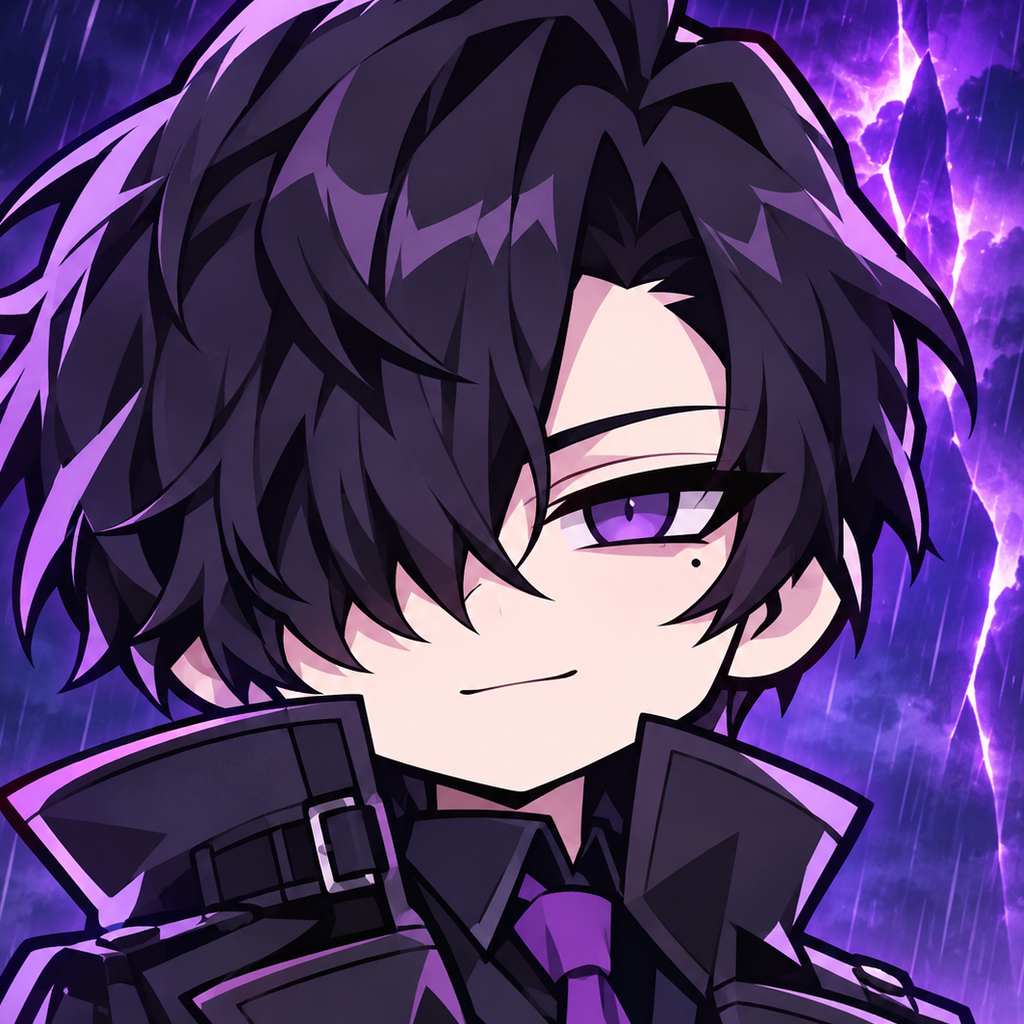
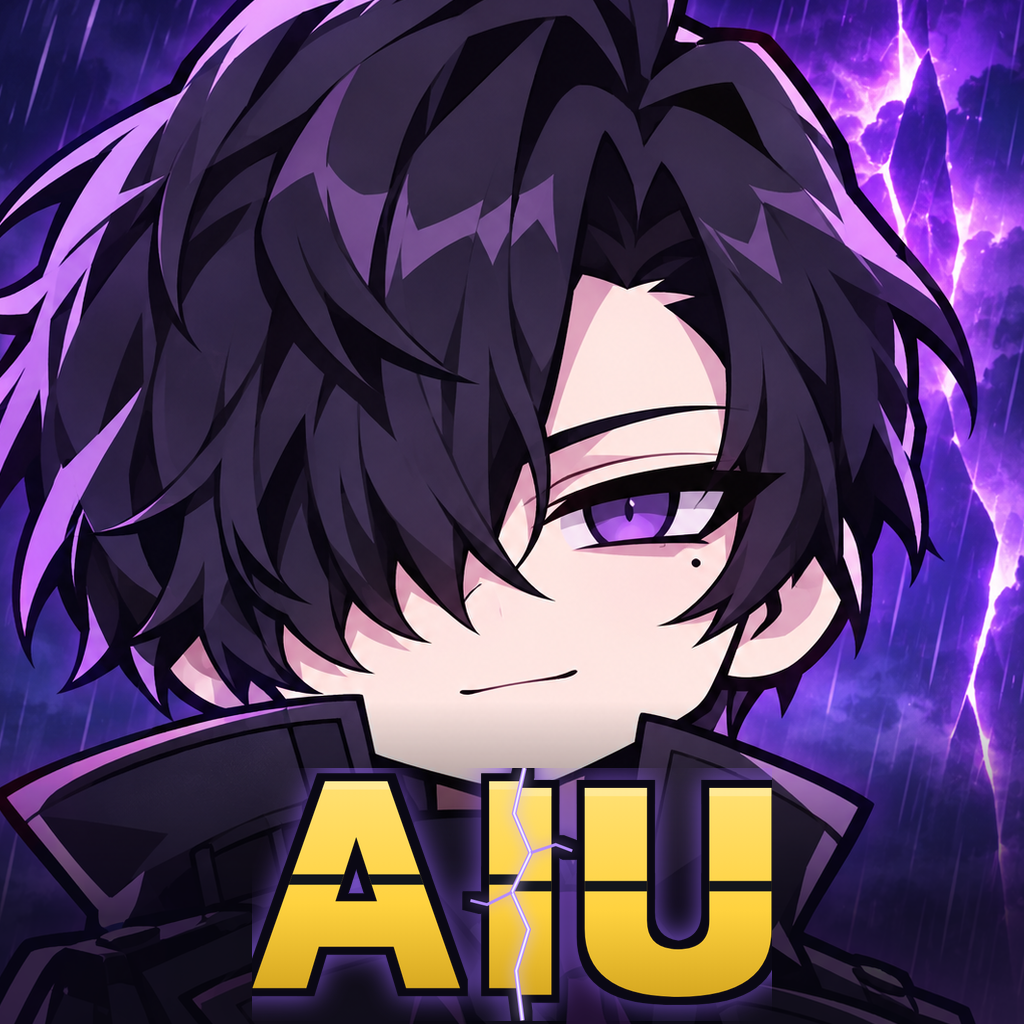
앱 아이콘: 나이트폴 얼굴 아래에 AIU 로고 얹음 (아래쪽 어둡게, 보랏빛 외곽선)
Claude-Session: https://claude.ai/code/session_01LfK2SF4yScbXuNoecw5hWh

Changed region(s): [[0.0, 0.6875, 1.0, 1.0], [0.1562, 0.6875, 0.1875, 0.7188]]

diff --git a/tools/make_icon_from_art.py b/tools/make_icon_from_art.py
@@ -1,0 +1,36 @@
+# 캐릭터 아이콘 그림(assets/brand/icon-source.png) 위에 AIU 로고를 얹어 앱 아이콘 세 장을 만듦. 로고 PNG는 tools/make_app_icons.js 와 같은 SVG 에서 렌더링
+from PIL import Image, ImageDraw, ImageFilter
+S=1024; A='/home/claude/aiu/assets/'
+src=Image.open(A+'brand/icon-source.png').convert('RGB').crop((95,95,1159,1159))
+logo=Image.open('/home/claude/iconwork/aiu_logo.png').convert('RGBA'); logo=logo.crop(logo.getbbox())
+def with_outline(lg, w):
+    a=lg.split()[3]; o=a.filter(ImageFilter.MaxFilter(w*2+1))
+    out=Image.new('RGBA',lg.size,(10,8,20,0)); out.putalpha(o)
+    g=Image.new('RGBA',lg.size,(150,100,255,0)); g.putalpha(o.filter(ImageFilter.GaussianBlur(w*1.6)).point(lambda v:int(v*.8)))
+    pad=w*4; c=Image.new('RGBA',(lg.width+pad*2,lg.height+pad*2),(0,0,0,0))
+    for im in (g,out,lg): c.alpha_composite(im,(pad,pad))
+    return c
+def place(canvas, width, cy):
+    lg=with_outline(logo.resize((width,int(logo.height*width/logo.width)),Image.LANCZOS), max(4,width//60))
+    canvas.alpha_composite(lg,((S-lg.width)//2, int(cy-lg.height/2)))
+def shade(canvas, y0):
+    sh=Image.new('L',(S,S),0); d=ImageDraw.Draw(sh)
+    for y in range(y0,S): d.line([(0,y),(S,y)],fill=int(200*min(1,(y-y0)/(S-y0)*1.5)))
+    canvas.alpha_composite(Image.composite(Image.new('RGBA',(S,S),(8,6,18,255)),Image.new('RGBA',(S,S),(0,0,0,0)),sh))
+full=src.resize((S,S),Image.LANCZOS).convert('RGBA'); shade(full,700); place(full,520,895); full.convert('RGB').save(A+'icon-only.png')
+bg=src.resize((S,S),Image.LANCZOS).filter(ImageFilter.GaussianBlur(30)); bg.paste(src.resize((720,720),Image.LANCZOS),(152,152))
+bgr=bg.convert('RGBA'); shade(bgr,620); bgr.convert('RGB').save(A+'icon-background.png')
+fg=Image.new('RGBA',(S,S),(0,0,0,0)); place(fg,400,745); fg.save(A+'icon-foreground.png')
+ad=bgr.copy(); ad.alpha_composite(fg)
+def mask(im,kind):
+    c=im.crop((170,170,854,854)).resize((S,S),Image.LANCZOS); m=Image.new('L',(S,S),0); d=ImageDraw.Draw(m)
+    if kind=='c': d.ellipse((0,0,S-1,S-1),fill=255)
+    else: d.rounded_rectangle((0,0,S-1,S-1),radius=230,fill=255)
+    o=Image.new('RGBA',(S,S),(0,0,0,0)); o.paste(c,(0,0),m); return o
+row=Image.new('RGBA',(256*3+40+96+48+40,256),(60,60,70,255))
+row.alpha_composite(full.resize((256,256),Image.LANCZOS),(0,0))
+row.alpha_composite(mask(ad,'c').resize((256,256),Image.LANCZOS),(276,0))
+row.alpha_composite(mask(ad,'r').resize((256,256),Image.LANCZOS),(552,0))
+row.alpha_composite(mask(ad,'r').resize((96,96),Image.LANCZOS),(828,80))
+row.alpha_composite(mask(ad,'r').resize((48,48),Image.LANCZOS),(944,104))
+row.save('/home/claude/iconwork/preview5.png')
